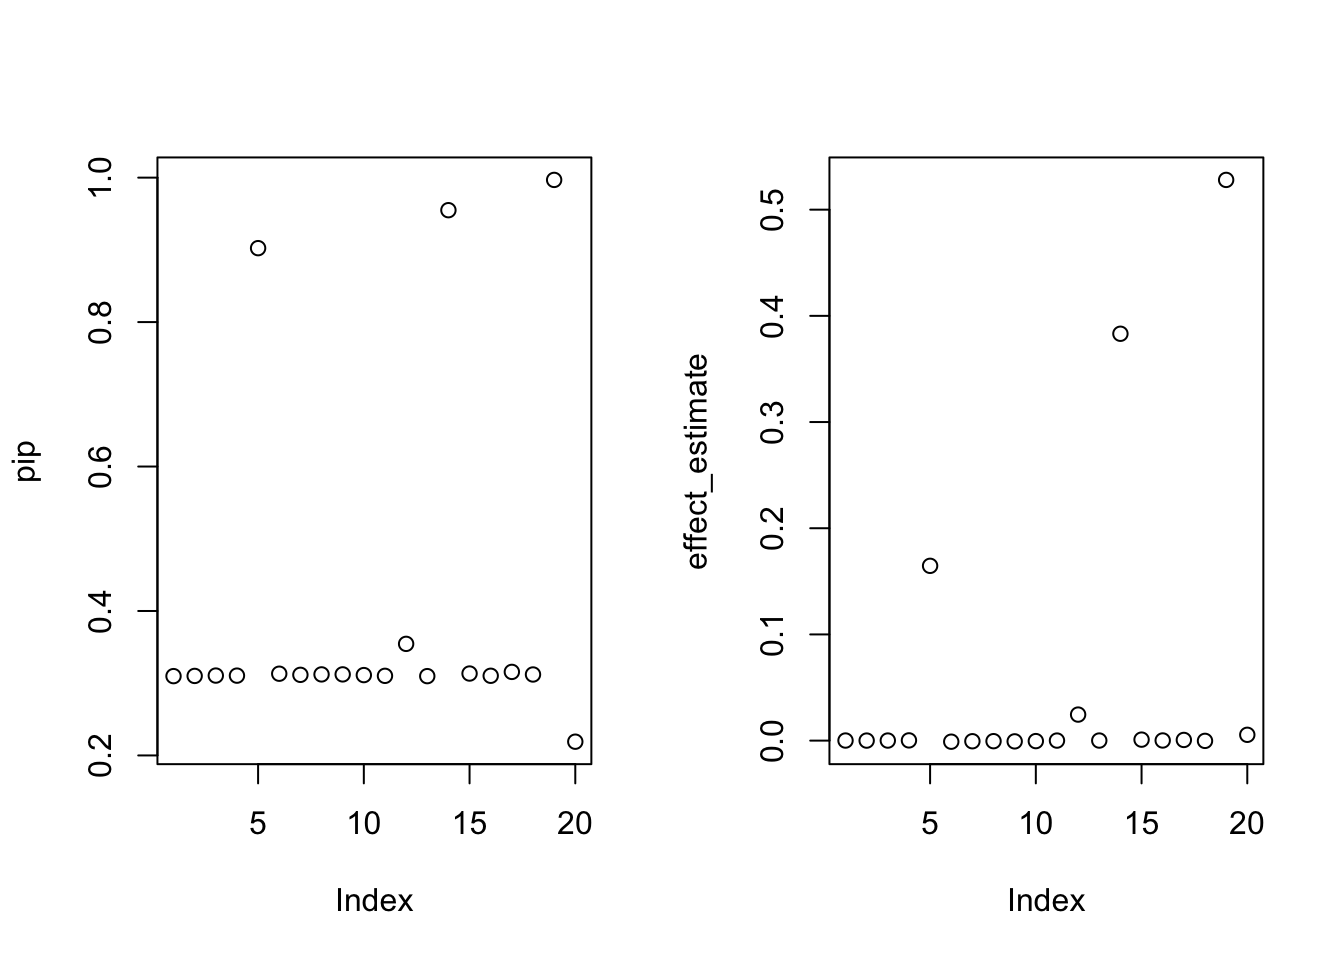
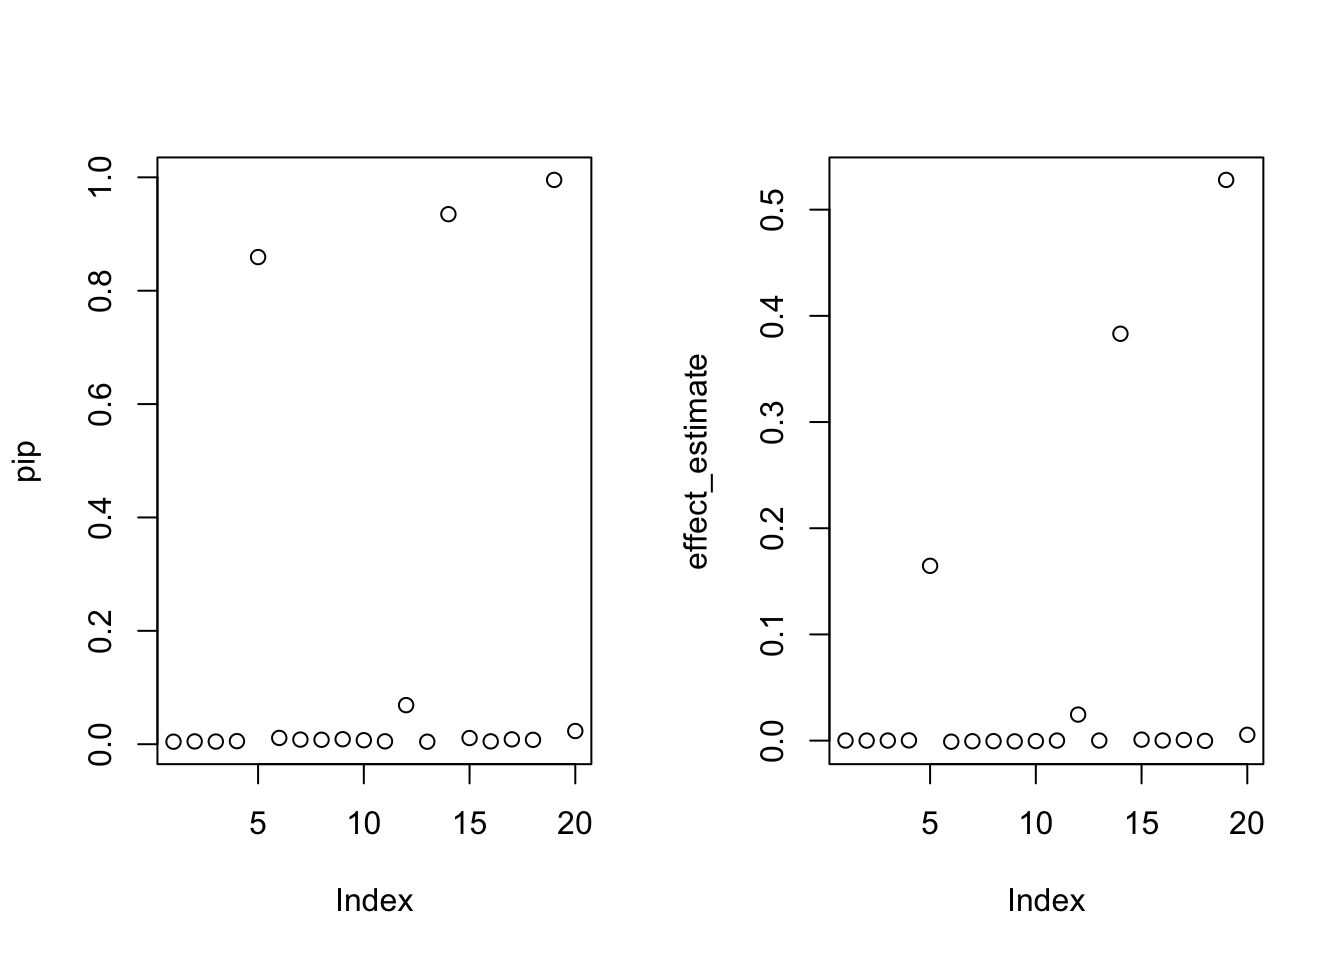
Build site.

diff --git a/docs/cancer_subtype.html b/docs/cancer_subtype.html
@@ -384,7 +384,7 @@ div.tocify {
 <div class="tab-content">
 <div id="summary" class="tab-pane fade in active">
 <p>
-<strong>Last updated:</strong> 2023-08-29
+<strong>Last updated:</strong> 2023-08-30
 </p>
 <p>
 <strong>Checks:</strong> <span class="glyphicon glyphicon-ok text-success" aria-hidden="true"></span> 7 <span class="glyphicon glyphicon-exclamation-sign text-danger" aria-hidden="true"></span> 0
@@ -475,16 +475,16 @@ This reproducible <a href="http://rmarkdown.rstudio.com">R Markdown</a> analysis
 <div class="panel panel-default">
 <div class="panel-heading">
 <p class="panel-title">
-<a data-toggle="collapse" data-parent="#workflowr-checks" href="#strongRepositoryversionstrongahrefhttpsgithubcomyunqiyang0215survivalsusietree93ea0c2fcd91be240b74323e035429ea6a3111d3targetblank93ea0c2a"> <span class="glyphicon glyphicon-ok text-success" aria-hidden="true"></span> <strong>Repository version:</strong> <a href="https://github.com/yunqiyang0215/survival-susie/tree/93ea0c2fcd91be240b74323e035429ea6a3111d3" target="_blank">93ea0c2</a> </a>
+<a data-toggle="collapse" data-parent="#workflowr-checks" href="#strongRepositoryversionstrongahrefhttpsgithubcomyunqiyang0215survivalsusietree76f0bd91f5db7137bf212b52dc8b4836a14d3078targetblank76f0bd9a"> <span class="glyphicon glyphicon-ok text-success" aria-hidden="true"></span> <strong>Repository version:</strong> <a href="https://github.com/yunqiyang0215/survival-susie/tree/76f0bd91f5db7137bf212b52dc8b4836a14d3078" target="_blank">76f0bd9</a> </a>
 </p>
 </div>
[2 lines of base64/hex data omitted]
 <div class="panel-body">
 <p>
 Great! You are using Git for version control. Tracking code development and connecting the code version to the results is critical for reproducibility.
 </p>
 <p>
-The results in this page were generated with repository version <a href="https://github.com/yunqiyang0215/survival-susie/tree/93ea0c2fcd91be240b74323e035429ea6a3111d3" target="_blank">93ea0c2</a>. See the <em>Past versions</em> tab to see a history of the changes made to the R Markdown and HTML files.
+The results in this page were generated with repository version <a href="https://github.com/yunqiyang0215/survival-susie/tree/76f0bd91f5db7137bf212b52dc8b4836a14d3078" target="_blank">76f0bd9</a>. See the <em>Past versions</em> tab to see a history of the changes made to the R Markdown and HTML files.
 </p>
 <p>
 Note that you need to be careful to ensure that all relevant files for the analysis have been committed to Git prior to generating the results (you can use <code>wflow_publish</code> or <code>wflow_git_commit</code>). workflowr only checks the R Markdown file, but you know if there are other scripts or data files that it depends on. Below is the status of the Git repository when the results were generated:
@@ -538,6 +538,40 @@ Message
 </tr>
 </thead>
 <tbody>
+<tr>
+<td>
+Rmd
+</td>
+<td>
+<a href="https://github.com/yunqiyang0215/survival-susie/blob/76f0bd91f5db7137bf212b52dc8b4836a14d3078/analysis/cancer_subtype.Rmd" target="_blank">76f0bd9</a>
+</td>
+<td>
+yunqiyang0215
+</td>
+<td>
+2023-08-30
+</td>
+<td>
+wflow_publish("analysis/cancer_subtype.Rmd")
+</td>
+</tr>
+<tr>
+<td>
+html
+</td>
+<td>
+<a href="https://rawcdn.githack.com/yunqiyang0215/survival-susie/14449d8733bfd761be51355c526d9c84b0139d92/docs/cancer_subtype.html" target="_blank">14449d8</a>
+</td>
+<td>
+yunqiyang0215
+</td>
+<td>
+2023-08-29
+</td>
+<td>
+Build site.
+</td>
+</tr>
 <tr>
 <td>
 Rmd
@@ -898,6 +932,43 @@ data.combined &lt;- readRDS(&quot;./data/combined_data_resectable_v2.rds&quot;)
 ### show the pairwise correlation between program signatures
 pheatmap(cor(data.combined[, -c(1:6)]), angle_col = 45)</code></pre>
 <p><img src="figure/cancer_subtype.Rmd/load%20data-1.png" width="672" style="display: block; margin: auto;" /></p>
+<p>
+<button type="button" class="btn btn-default btn-xs btn-workflowr btn-workflowr-fig" data-toggle="collapse" data-target="#fig-no-spaces-load-data-1">
+Past versions of "load data-1.png"
+</button>
+</p>
+<div id="fig-no-spaces-load-data-1" class="collapse">
+<div class="table-responsive">
+<table class="table table-condensed table-hover">
+<thead>
+<tr>
+<th>
+Version
+</th>
+<th>
+Author
+</th>
+<th>
+Date
+</th>
+</tr>
+</thead>
+<tbody>
+<tr>
+<td>
+<a href="https://github.com/yunqiyang0215/survival-susie/blob/14449d8733bfd761be51355c526d9c84b0139d92/docs/figure/cancer_subtype.Rmd/load data-1.png" target="_blank">14449d8</a>
+</td>
+<td>
+yunqiyang0215
+</td>
+<td>
+2023-08-29
+</td>
+</tr>
+</tbody>
+</table>
+</div>
+</div>
 <pre class="r"><code>### pre-processing
 data.combined$male &lt;- ifelse(data.combined$sex==&quot;Male&quot;, 1, 0)
 data.combined$stageIIb &lt;- ifelse(data.combined$stage==&quot;IIb&quot;, 1, 0)
@@ -1101,80 +1172,16 @@ p = ncol(X)
 
 ## Create  survival object
 y &lt;- Surv(data.combined$futime, data.combined$event)
-fit.susie &lt;- ibss_from_ser(X, y, L = L, prior_variance = 1., prior_weights = rep(1/p, p), tol = 1e-3, maxit = maxiter,
-                     estimate_intercept = TRUE, ser_function = fit_coxph)</code></pre>
-<pre><code>18.777 sec elapsed</code></pre>
-<pre class="r"><code>pip &lt;- logisticsusie:::get_pip(fit.susie$alpha)
+fit.susie &lt;- ibss_from_ser(X, y, L = L, prior_variance = 1., prior_weights = rep(1/p, p), tol = 1e-3, maxit = maxiter, estimate_intercept = TRUE, ser_function = fit_coxph)</code></pre>
+<pre><code>22.222 sec elapsed</code></pre>
+<pre class="r"><code>null_index = which(fit.susie$prior_vars == 0)
+pip &lt;- logisticsusie:::get_pip(fit.susie$alpha[-null_index, ])
 effect_estimate &lt;- colSums(fit.susie$alpha * fit.susie$mu)
 class(fit.susie) = &quot;susie&quot;
 cs &lt;- susie_get_cs(fit.susie, X)</code></pre>
-<pre class="r"><code>fit.susie$alpha</code></pre>
-<pre><code>              [,1]         [,2]         [,3]         [,4]         [,5]
- [1,] 9.077002e-10 1.775708e-06 1.637247e-05 0.6571516629 0.0291000168
- [2,] 5.012913e-05 2.368225e-04 2.541389e-04 0.0002223035 0.0002127505
- [3,] 1.559306e-03 8.131596e-03 9.603318e-03 0.0085495339 0.0078215657
- [4,] 3.435439e-02 3.371088e-02 3.372478e-02 0.0337040022 0.0337135529
- [5,] 3.435439e-02 3.371088e-02 3.372478e-02 0.0337040022 0.0337135529
- [6,] 3.435439e-02 3.371088e-02 3.372478e-02 0.0337040022 0.0337135529
- [7,] 3.435439e-02 3.371088e-02 3.372478e-02 0.0337040022 0.0337135529
- [8,] 3.435439e-02 3.371088e-02 3.372478e-02 0.0337040022 0.0337135529
- [9,] 3.435439e-02 3.371088e-02 3.372478e-02 0.0337040022 0.0337135529
-[10,] 3.435439e-02 3.371088e-02 3.372478e-02 0.0337040022 0.0337135529
-              [,6]         [,7]         [,8]         [,9]        [,10]
- [1,] 0.0020906630 9.640262e-09 0.0000244297 3.713704e-07 3.314570e-09
- [2,] 0.0002196933 2.092147e-04 0.0009088008 2.130571e-04 2.700713e-04
- [3,] 0.0080484333 7.245943e-03 0.0158386834 6.970563e-03 6.746850e-03
- [4,] 0.0336975973 3.371386e-02 0.0340803435 3.371423e-02 3.371423e-02
- [5,] 0.0336975973 3.371386e-02 0.0340803435 3.371423e-02 3.371423e-02
- [6,] 0.0336975973 3.371386e-02 0.0340803435 3.371423e-02 3.371423e-02
- [7,] 0.0336975973 3.371386e-02 0.0340803435 3.371423e-02 3.371423e-02
- [8,] 0.0336975973 3.371386e-02 0.0340803435 3.371423e-02 3.371423e-02
- [9,] 0.0336975973 3.371386e-02 0.0340803435 3.371423e-02 3.371423e-02
-[10,] 0.0336975973 3.371386e-02 0.0340803435 3.371423e-02 3.371423e-02
-             [,11]        [,12]        [,13]        [,14]        [,15]
- [1,] 8.031203e-09 3.356080e-09 3.122874e-09 1.842121e-08 2.410391e-08
- [2,] 2.303416e-04 2.347758e-04 4.467966e-04 2.482434e-04 5.964454e-04
- [3,] 5.960467e-03 7.161210e-03 5.846314e-03 6.447664e-03 7.520618e-01
- [4,] 3.371457e-02 3.371410e-02 3.382142e-02 3.371558e-02 3.342358e-02
- [5,] 3.371457e-02 3.371410e-02 3.382142e-02 3.371558e-02 3.342358e-02
- [6,] 3.371457e-02 3.371410e-02 3.382142e-02 3.371558e-02 3.342358e-02
- [7,] 3.371457e-02 3.371410e-02 3.382142e-02 3.371558e-02 3.342358e-02
- [8,] 3.371457e-02 3.371410e-02 3.382142e-02 3.371558e-02 3.342358e-02
- [9,] 3.371457e-02 3.371410e-02 3.382142e-02 3.371558e-02 3.342358e-02
-[10,] 3.371457e-02 3.371410e-02 3.382142e-02 3.371558e-02 3.342358e-02
-             [,16]        [,17]        [,18]        [,19]        [,20]
- [1,] 5.801256e-06 3.155495e-05 7.011291e-06 7.313144e-05 5.399864e-05
- [2,] 2.486757e-04 2.319866e-04 2.508969e-04 2.377948e-04 2.462564e-04
- [3,] 9.966125e-03 8.146961e-03 8.571510e-03 8.906771e-03 7.206083e-03
- [4,] 3.369123e-02 3.370547e-02 3.371460e-02 3.370397e-02 3.371372e-02
- [5,] 3.369123e-02 3.370547e-02 3.371460e-02 3.370397e-02 3.371372e-02
- [6,] 3.369123e-02 3.370547e-02 3.371460e-02 3.370397e-02 3.371372e-02
- [7,] 3.369123e-02 3.370547e-02 3.371460e-02 3.370397e-02 3.371372e-02
- [8,] 3.369123e-02 3.370547e-02 3.371460e-02 3.370397e-02 3.371372e-02
- [9,] 3.369123e-02 3.370547e-02 3.371460e-02 3.370397e-02 3.371372e-02
-[10,] 3.369123e-02 3.370547e-02 3.371460e-02 3.370397e-02 3.371372e-02
-             [,21]        [,22]        [,23]        [,24]        [,25]
- [1,] 3.189192e-06 0.0156453106 7.767224e-07 0.2957430322 5.023537e-05
- [2,] 2.526942e-04 0.0002169459 2.332186e-04 0.0002138327 2.026477e-04
- [3,] 8.151991e-03 0.0068072742 6.036067e-03 0.0084354972 7.316384e-03
- [4,] 3.372136e-02 0.0337007048 3.371359e-02 0.0336944941 3.371048e-02
- [5,] 3.372136e-02 0.0337007048 3.371359e-02 0.0336944941 3.371048e-02
- [6,] 3.372136e-02 0.0337007048 3.371359e-02 0.0336944941 3.371048e-02
- [7,] 3.372136e-02 0.0337007048 3.371359e-02 0.0336944941 3.371048e-02
- [8,] 3.372136e-02 0.0337007048 3.371359e-02 0.0336944941 3.371048e-02
- [9,] 3.372136e-02 0.0337007048 3.371359e-02 0.0336944941 3.371048e-02
-[10,] 3.372136e-02 0.0337007048 3.371359e-02 0.0336944941 3.371048e-02
-             [,26]        [,27]        [,28]        [,29]        [,30]
- [1,] 2.509383e-07 2.814662e-07 5.732256e-09 6.280751e-09 5.106184e-08
- [2,] 2.796190e-04 2.770030e-04 4.935214e-04 9.911180e-01 9.433166e-04
- [3,] 8.573001e-03 7.140600e-03 1.010089e-02 1.148845e-02 2.515914e-02
- [4,] 3.383111e-02 3.377199e-02 3.371349e-02 3.372379e-02 2.137288e-02
- [5,] 3.383111e-02 3.377199e-02 3.371349e-02 3.372379e-02 2.137288e-02
- [6,] 3.383111e-02 3.377199e-02 3.371349e-02 3.372379e-02 2.137288e-02
- [7,] 3.383111e-02 3.377199e-02 3.371349e-02 3.372379e-02 2.137288e-02
- [8,] 3.383111e-02 3.377199e-02 3.371349e-02 3.372379e-02 2.137288e-02
- [9,] 3.383111e-02 3.377199e-02 3.371349e-02 3.372379e-02 2.137288e-02
-[10,] 3.383111e-02 3.377199e-02 3.371349e-02 3.372379e-02 2.137288e-02</code></pre>
+<pre class="r"><code>fit.susie$prior_vars</code></pre>
+<pre><code> [1] 0.18639942 0.28638222 0.02990417 0.00000000 0.00000000 0.00000000
+ [7] 0.00000000 0.00000000 0.00000000 0.00000000</code></pre>
 <pre class="r"><code># Set wider margins to accommodate the labels
 par(mar = c(7, 4, 3, 3)) 
 plot(pip, xaxt = &quot;n&quot;, xlab = &quot;&quot;)
@@ -1202,6 +1209,17 @@ Date
 </tr>
 </thead>
 <tbody>
+<tr>
+<td>
+<a href="https://github.com/yunqiyang0215/survival-susie/blob/14449d8733bfd761be51355c526d9c84b0139d92/docs/figure/cancer_subtype.Rmd/unnamed-chunk-7-1.png" target="_blank">14449d8</a>
+</td>
+<td>
+yunqiyang0215
+</td>
+<td>
+2023-08-29
+</td>
+</tr>
 <tr>
 <td>
 <a href="https://github.com/yunqiyang0215/survival-susie/blob/3d247abe819d608e6a49593bba71bd629126502a/docs/figure/cancer_subtype.Rmd/unnamed-chunk-7-1.png" target="_blank">3d247ab</a>
@@ -1265,6 +1283,17 @@ Date
 </tr>
 </thead>
 <tbody>
+<tr>
+<td>
+<a href="https://github.com/yunqiyang0215/survival-susie/blob/14449d8733bfd761be51355c526d9c84b0139d92/docs/figure/cancer_subtype.Rmd/unnamed-chunk-8-1.png" target="_blank">14449d8</a>
+</td>
+<td>
+yunqiyang0215
+</td>
+<td>
+2023-08-29
+</td>
+</tr>
 <tr>
 <td>
 <a href="https://github.com/yunqiyang0215/survival-susie/blob/3d247abe819d608e6a49593bba71bd629126502a/docs/figure/cancer_subtype.Rmd/unnamed-chunk-8-1.png" target="_blank">3d247ab</a>
@@ -1346,8 +1375,9 @@ fit.susie &lt;- ibss_from_ser(X, y, L = L, prior_variance = 1., prior_weights = 
                      estimate_intercept = TRUE, ser_function = fit_coxph)</code></pre>
 <pre><code>Warning in coxph.fit(X, Y, istrat, offset, init, control, weights = weights, :
 Loglik converged before variable 1 ; coefficient may be infinite.</code></pre>
-<pre><code>13.227 sec elapsed</code></pre>
-<pre class="r"><code>pip &lt;- logisticsusie:::get_pip(fit.susie$alpha)
+<pre><code>11.768 sec elapsed</code></pre>
+<pre class="r"><code>null_index = which(fit.susie$prior_vars == 0)
+pip &lt;- logisticsusie:::get_pip(fit.susie$alpha[-null_index, ])
 effect_estimate &lt;- colSums(fit.susie$alpha * fit.susie$mu)
 class(fit.susie) = &quot;susie&quot;
 cs &lt;- susie_get_cs(fit.susie, X)</code></pre>
@@ -1377,6 +1407,17 @@ Date
 </tr>
 </thead>
 <tbody>
+<tr>
+<td>
+<a href="https://github.com/yunqiyang0215/survival-susie/blob/14449d8733bfd761be51355c526d9c84b0139d92/docs/figure/cancer_subtype.Rmd/unnamed-chunk-12-1.png" target="_blank">14449d8</a>
+</td>
+<td>
+yunqiyang0215
+</td>
+<td>
+2023-08-29
+</td>
+</tr>
 <tr>
 <td>
 <a href="https://github.com/yunqiyang0215/survival-susie/blob/3d247abe819d608e6a49593bba71bd629126502a/docs/figure/cancer_subtype.Rmd/unnamed-chunk-12-1.png" target="_blank">3d247ab</a>
@@ -1550,6 +1591,17 @@ Date
 </tr>
 </thead>
 <tbody>
+<tr>
+<td>
+<a href="https://github.com/yunqiyang0215/survival-susie/blob/14449d8733bfd761be51355c526d9c84b0139d92/docs/figure/cancer_subtype.Rmd/unnamed-chunk-18-1.png" target="_blank">14449d8</a>
+</td>
+<td>
+yunqiyang0215
+</td>
+<td>
+2023-08-29
+</td>
+</tr>
 <tr>
 <td>
 <a href="https://github.com/yunqiyang0215/survival-susie/blob/3d247abe819d608e6a49593bba71bd629126502a/docs/figure/cancer_subtype.Rmd/unnamed-chunk-18-1.png" target="_blank">3d247ab</a>
